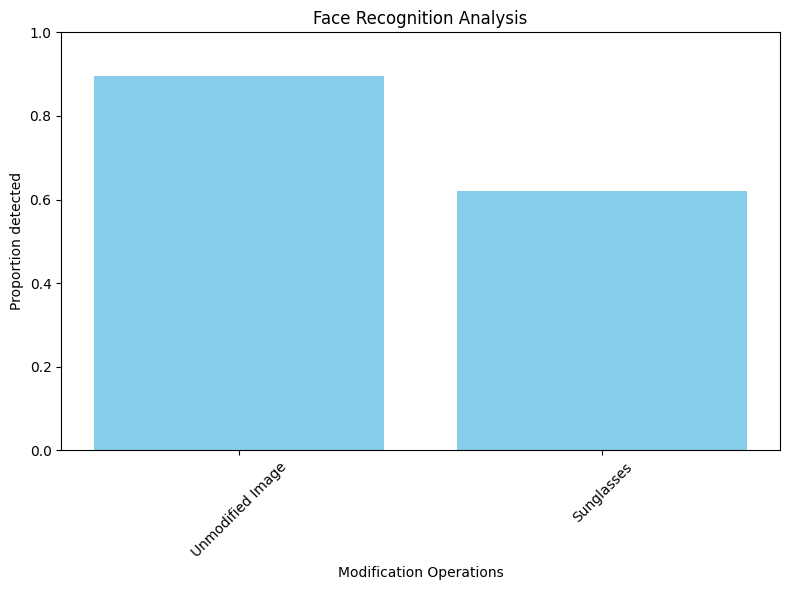
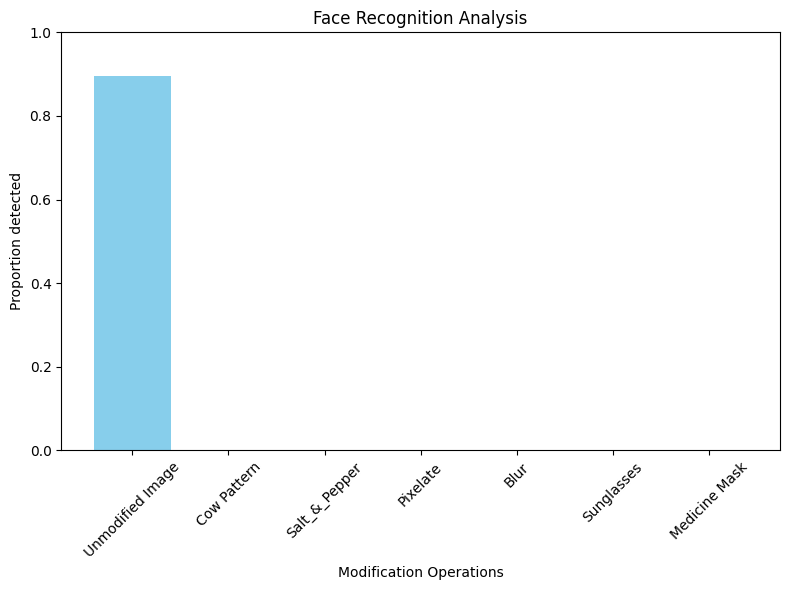
More preparation in Data Analysis for FR

diff --git a/test/DataAnalysisFaceRecognition.py b/test/DataAnalysisFaceRecognition.py
@@ -127,12 +127,42 @@ def run_analysis():
 
     cur_pairs = []
     for pair in face_pairs_pil_with_keypoints:
+        cur_pairs.append((pair[0], server.apply_cow_pattern(pair[1], pair[2])))
+    cow_pattern_result = run_pairs_with_filter(cur_pairs) / len(face_pairs_pil_with_keypoints)
+    print("Finished match calculation")
+
+    cur_pairs = []
+    for pair in face_pairs_pil_with_keypoints:
+        cur_pairs.append((pair[0], server.apply_salt_n_pepper(pair[1], pair[2])))
+    salt_and_pepper_result = run_pairs_with_filter(cur_pairs) / len(face_pairs_pil_with_keypoints)
+    print("Finished match calculation")
+
+    cur_pairs = []
+    for pair in face_pairs_pil_with_keypoints:
+        cur_pairs.append((pair[0], server.apply_pixelate(pair[1], pair[2])))
+    pixelate_result = run_pairs_with_filter(cur_pairs) / len(face_pairs_pil_with_keypoints)
+    print("Finished match calculation")
+
+    cur_pairs = []
+    for pair in face_pairs_pil_with_keypoints:
+        cur_pairs.append((pair[0], server.apply_blur(pair[1], pair[2])))
+    blur_result = run_pairs_with_filter(cur_pairs) / len(face_pairs_pil_with_keypoints)
+    print("Finished match calculation")
+
+    cur_pairs = []
+    for pair in face_pairs_pil_with_keypoints:
         cur_pairs.append((pair[0], server.apply_sunglasses(pair[1], pair[2])))
     sunglasses_result = run_pairs_with_filter(cur_pairs) / len(face_pairs_pil_with_keypoints)
     print("Finished match calculation")
 
-    categories = ["Unmodified Image", "Sunglasses"]
-    values = [unmodified_result, sunglasses_result]
+    cur_pairs = []
+    for pair in face_pairs_pil_with_keypoints:
+        cur_pairs.append((pair[0], server.apply_medicine_mask(pair[1], pair[2])))
+    medicine_mask_result = run_pairs_with_filter(cur_pairs) / len(face_pairs_pil_with_keypoints)
+    print("Finished match calculation")
+
+    categories = ["Unmodified Image", "Cow Pattern", "Salt_&_Pepper", "Pixelate", "Blur", "Sunglasses", "Medicine Mask"]
+    values = [unmodified_result, cow_pattern_result, salt_and_pepper_result, pixelate_result, blur_result, sunglasses_result, medicine_mask_result]
 
     plot_results("Face Recognition Analysis", categories, values)
 
